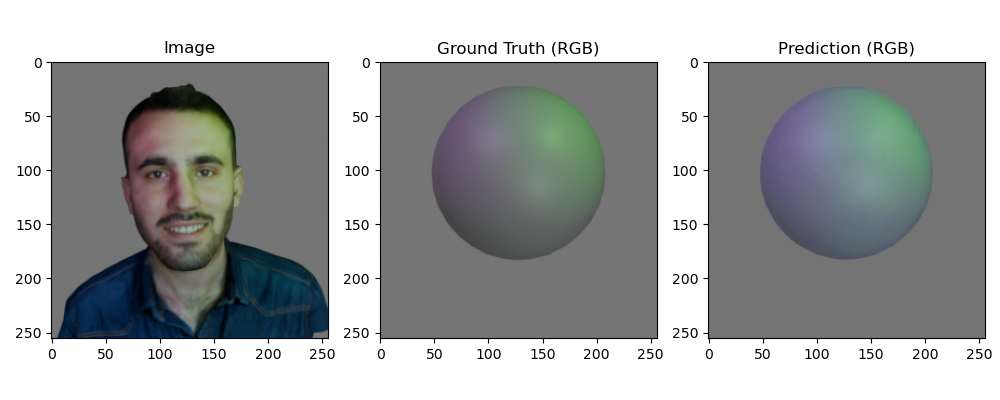
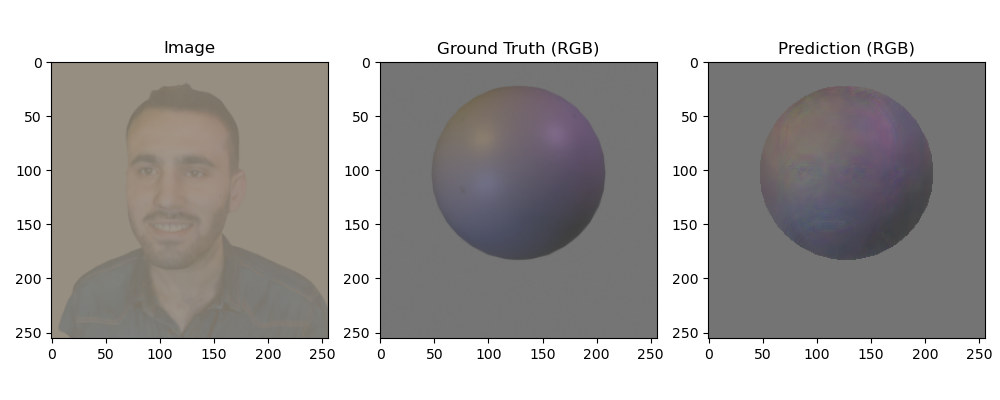
normalization removed

Changed region(s): [[0.031, 0.15, 0.341, 0.87], [0.744, 0.21, 0.93, 0.66], [0.434, 0.21, 0.62, 0.63]]

diff --git a/train_full.py b/train_full.py
@@ -51,7 +51,7 @@ args = parser.parse_args()
 # ])
 transform_face = A.Compose([
     A.Resize(256, 256),
-    A.Normalize(mean=(0.485, 0.456, 0.406), std=(0.229, 0.224, 0.225)),
+    # A.Normalize(mean=(0.485, 0.456, 0.406), std=(0.229, 0.224, 0.225)),
     ToTensorV2()
 ])
 
@@ -148,7 +148,7 @@ scheduler = CyclicLR(optimizer, base_lr=args.lr, max_lr=10.0, step_size_up=2000,
 def train1(model, train_dataloader, val_dataloader, optimizer, criterion, epochs):
     global args
 
-    model.train()
+    # model.train()
     mask = train_dataset.maskTensor.to(device)
     mask = mask.unsqueeze(0).repeat(args.bs, 1, 1, 1)
 
@@ -157,6 +157,7 @@ def train1(model, train_dataloader, val_dataloader, optimizer, criterion, epochs
 
     start_time = time.time()
     for epoch in range(epochs):
+        model.train()
         epoch_loss = 0
 
         prgbar= tqdm(train_dataloader)
@@ -164,18 +165,18 @@ def train1(model, train_dataloader, val_dataloader, optimizer, criterion, epochs
             images, gtruth = images.to(device), gtruth.to(device)
 
             outputs = model(images)
-
+            # outputs = torch.sigmoid(outputs)  # Apply sigmoid to outputs
+            # outputs = torch.clamp(outputs, 0, 1)  # Clamp outputs to [0, 1] range
             ### USE MASK ON PREDICTION AND GROUND TRUTH
             # print(f"outputs shape: {outputs.shape}, gtruth shape: {gtruth.shape}, mask shape: {mask.shape}")
             # print("gtruth normal:", gtruth[0, :, 69, 100])
             # print("Output normal:", outputs[0, :, 69, 100])
-            # gtruth = gtruth * mask.int().float()
-            # outputs = outputs * mask.int().float()
+            gtruth = gtruth * mask.int().float()
+            outputs = outputs * mask.int().float()
 
             # print("gtruth masked:", gtruth[0, :, 69, 100])
             # print("Output masked:", outputs[0, :, 69, 100])
 
-            # Using SSIM-based loss
             loss = criterion(outputs, gtruth)  # Replacing the old loss function
             # print(loss) # to check ssim is between 0 to 1.
 
@@ -262,10 +263,10 @@ def normalize(img):
     return img
 
 def unnormalize(img):
-    mean = np.array([0.485, 0.456, 0.406])
-    std = np.array([0.229, 0.224, 0.225])
+    # mean = np.array([0.485, 0.456, 0.406])
+    # std = np.array([0.229, 0.224, 0.225])
     img = np.transpose(img, (1, 2, 0))
-    return np.clip((img * std + mean), 0, 1)
+    return img
 
 def minmaxscale(img):
     #img = np.array(img).astype(np.float32) / 255.0 
@@ -277,8 +278,9 @@ def visualize_prediction(model, dataset, idx=0): # TODO: check if normalize is c
     model.eval()
     inputs, gtruth = dataset[idx]  # inputs: tensor (3,H,W), gtruth: (1,H,W) or (3,H,W)
     with torch.no_grad():
-        pred = torch.sigmoid(model(inputs.unsqueeze(0).to(device)))
-        pred = pred.squeeze().cpu().numpy()
+        # pred = torch.sigmoid(model(inputs.unsqueeze(0).to(device)))
+        pred = model(inputs.unsqueeze(0).to(device)).squeeze().cpu().numpy()
+        pred = np.clip(pred, 0, 1)  # Ensure prediction is in [0, 1] range
     
     # Get the mask as a boolean array
     mask_3d = np.repeat(train_dataset.mask[:, :, np.newaxis], 3, axis=2)
@@ -322,7 +324,7 @@ os.makedirs(output_dir, exist_ok=True)
 
 # Visualize result
 for i in range(5):
-    visualize_prediction(model, train_dataset, idx=i)
+    visualize_prediction(model, test_dataset, idx=i)
 
 
 

diff --git a/FaceSphereDataset.py b/FaceSphereDataset.py
@@ -84,6 +84,7 @@ class FaceSphereDataset(Dataset):
         sphere_img = np.array(sphere_img)
 
         if (self.transforms_face):
+            face_img = face_img.astype(np.float32) / 255.0
             augmented_face = self.transforms_face(image=face_img)
             face_img = augmented_face['image']  # Should now be [C, H, W]
 
